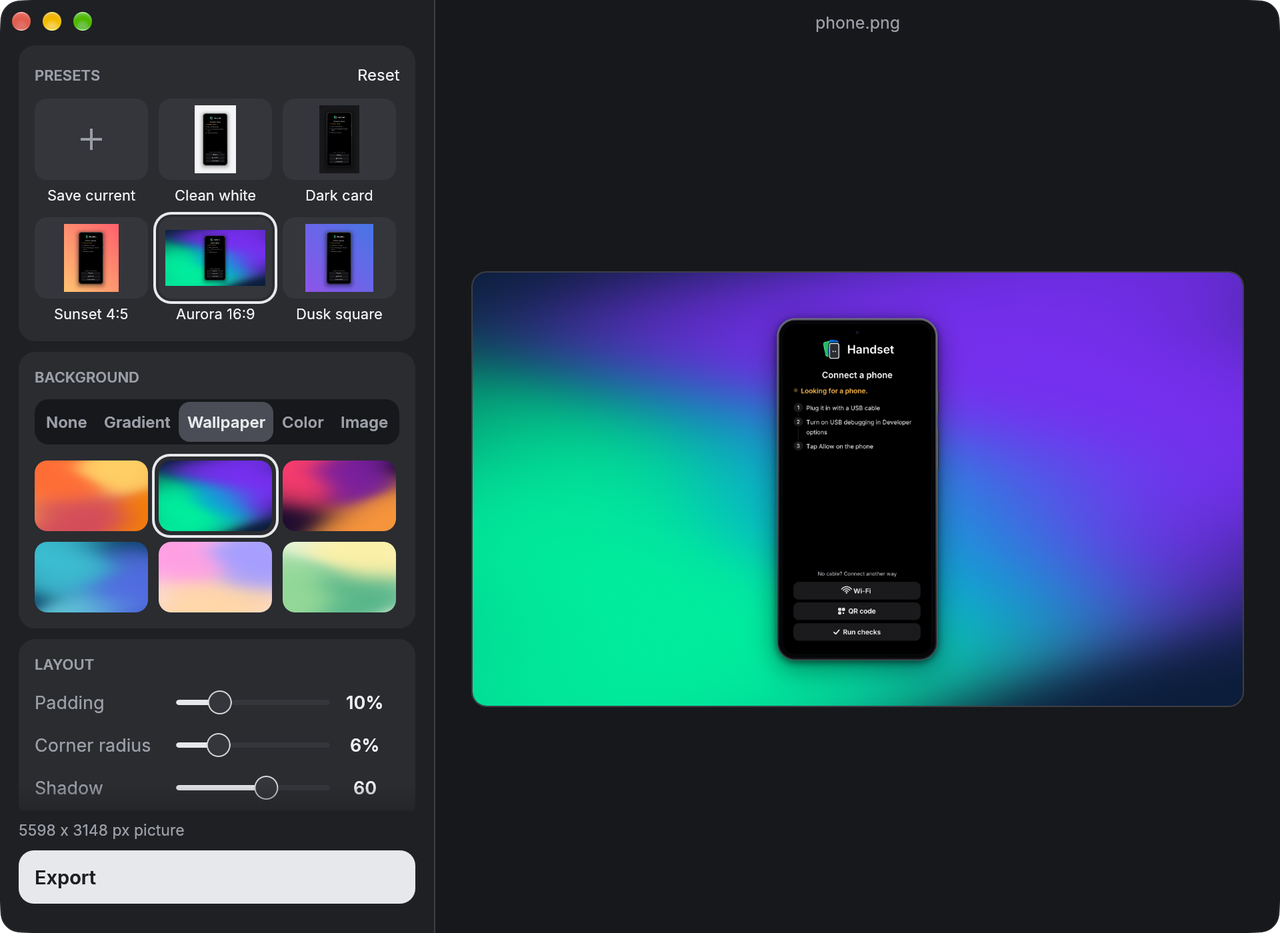
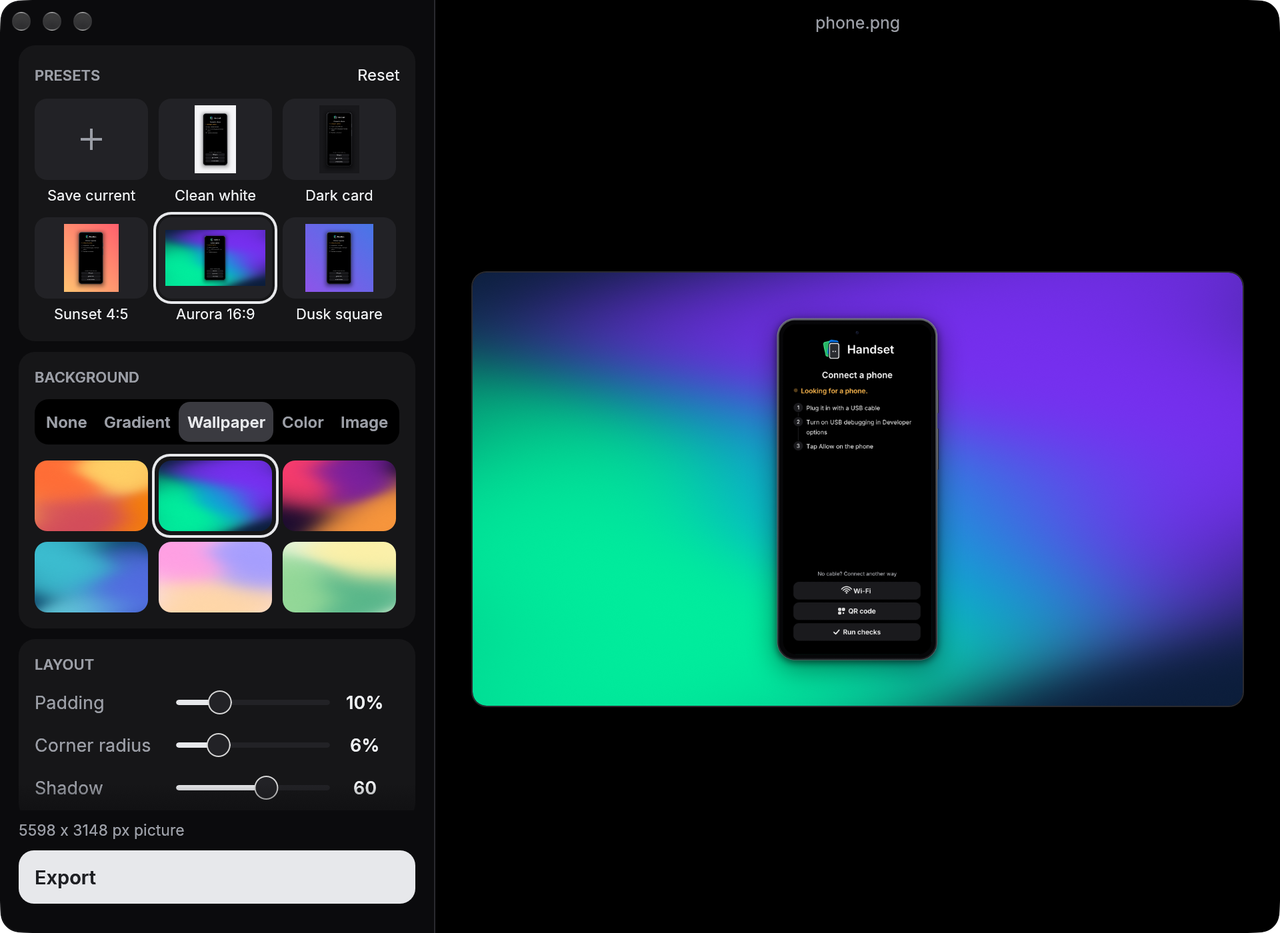
feat(ui): make the dark editor greys near black
Closer to the connect screen. The editor screenshot is retaken.

diff --git a/app/src/editor.rs b/app/src/editor.rs
@@ -308,7 +308,7 @@ impl Worker {
 // ---- look -----------------------------------------------------------------------------------------
 
 mod theme {
-    //! Device Gray: the greys of the app icon, one set for each OS theme. `set_dark` is called every frame
+    //! Device Gray: the greys of the app icon, one set for each OS theme. The dark set is near black, like the connect screen. `set_dark` is called every frame
     //! from the theme egui reports, so the palette follows the system setting.
     use eframe::egui::Color32;
     use std::sync::atomic::{AtomicBool, Ordering};
@@ -332,19 +332,19 @@ mod theme {
     }
 
     pub fn bg() -> Color32 {
-        pick(0x17181b, 0xe3e5e9)
+        pick(0x000000, 0xe3e5e9)
     }
     pub fn panel() -> Color32 {
-        pick(0x1f2024, 0xf2f3f5)
+        pick(0x0b0b0d, 0xf2f3f5)
     }
     pub fn card() -> Color32 {
-        pick(0x2a2c30, 0xffffff)
+        pick(0x161618, 0xffffff)
     }
     pub fn card_hi() -> Color32 {
-        pick(0x34363c, 0xe7e8eb)
+        pick(0x222226, 0xe7e8eb)
     }
     pub fn line() -> Color32 {
-        pick(0x3c3e44, 0xd5d8dd)
+        pick(0x2a2a2f, 0xd5d8dd)
     }
     pub fn text() -> Color32 {
         pick(0xeceef0, 0x1f2024)
@@ -363,17 +363,17 @@ mod theme {
         pick(0x1f2024, 0xffffff)
     }
     pub fn accent_dim() -> Color32 {
-        pick(0x4a4d55, 0xcdd0d6)
+        pick(0x3a3a40, 0xcdd0d6)
     }
     pub fn hover() -> Color32 {
-        pick(0x3f4248, 0xd5d8dd)
+        pick(0x2f2f35, 0xd5d8dd)
     }
     pub fn pressed() -> Color32 {
-        pick(0x4a4d55, 0xc5c8cf)
+        pick(0x3a3a41, 0xc5c8cf)
     }
     /// The part of a recording that is kept, brighter than the track.
     pub fn kept() -> Color32 {
-        pick(0x4a4d55, 0xb9bcc2)
+        pick(0x3a3a40, 0xb9bcc2)
     }
     /// The playhead knob.
     pub fn knob() -> Color32 {
